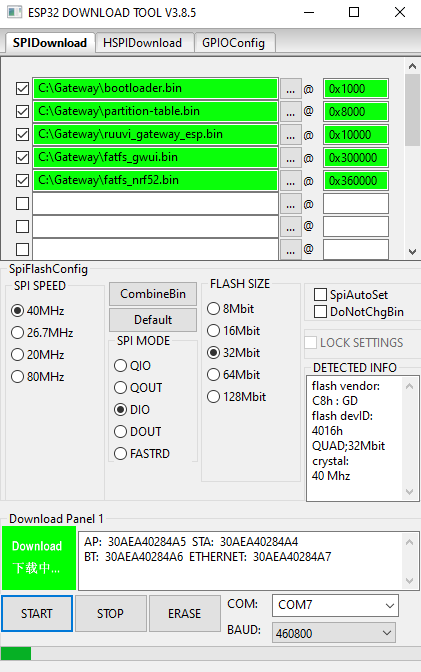
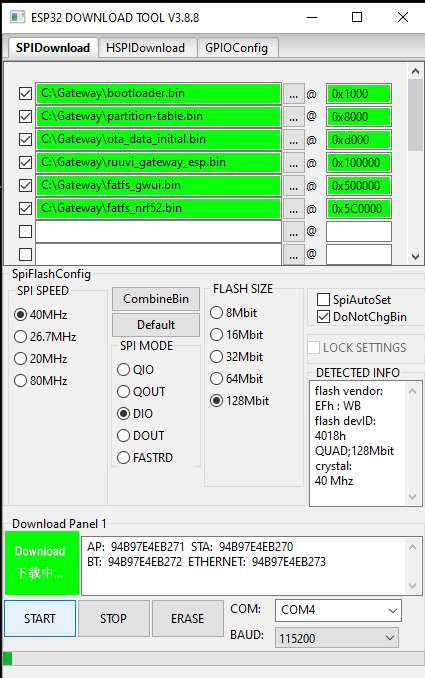
#60: Update README.md

Changed region(s): [[0.0, 0.0, 1.0, 1.0], [0.9572, 0.7812, 1.0, 0.875], [0.9881, 0.9375, 1.0, 1.0]]

diff --git a/README.md b/README.md
@@ -72,8 +72,8 @@ Prebuilt images for development versions of firmware can be found at [Ruuvi Jenk
 You can flash them with esptool.py. You might need to install CH340 drivers using [these instructions](https://learn.sparkfun.com/tutorials/how-to-install-ch340-drivers#drivers-if-you-need-them)
 ```
 pip install esptool
-esptool.py -p (PORT) -b 460800 --before default_reset --after hard_reset write_flash --flash_mode dio --flash_size detect --flash_freq 40m 0x1000 bootloader.bin 0x8000 partition-table.bin 0x10000 ruuvi_gateway_esp.bin 0x300000 fatfs_gwui.bin 0x360000 fatfs_nrf52.bin
+esptool.py -p (PORT) -b 460800 --before default_reset --after hard_reset write_flash --flash_mode dio --flash_size detect --flash_freq 40m 0x1000 bootloader.bin 0x8000 partition-table.bin 0xd000 ota_data_initial.bin 0x100000 ruuvi_gateway_esp.bin 0x500000 fatfs_gwui.bin 0x5C0000 fatfs_nrf52.bin
 ```
 
 or using the Windows GUI tool `Flash Download Tools` ([download](https://www.espressif.com/en/support/download/other-tools)) with these settings:
-![alt text](docs/guiflasher.png "Bootloader 0x1000, partition table 0x8000, ruuvi_gateway_esp 0x10000, fatfs_nrf52 0x360000")
+![alt text](docs/guiflasher.png "Bootloader 0x1000, partition table 0x8000, ota_data_initial 0xd000, ruuvi_gateway_esp 0x100000, fatfs_gwui 0x500000, fatfs_nrf52 0x5C0000")
